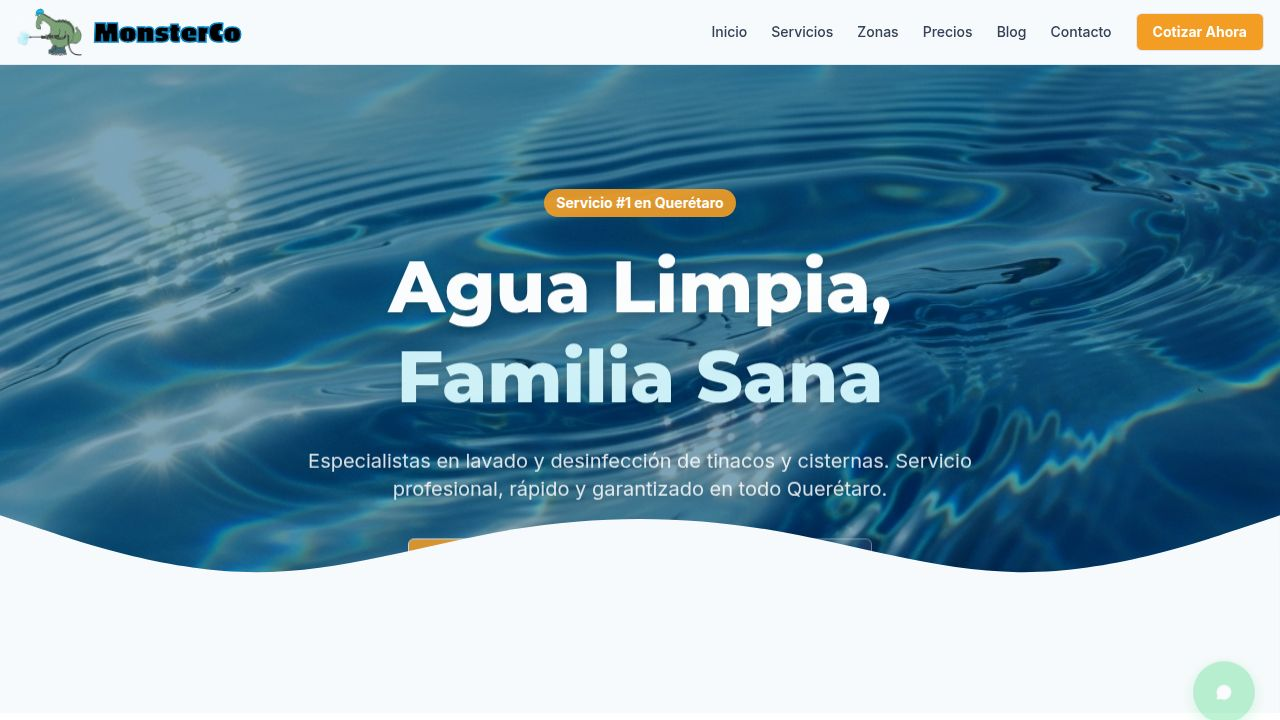
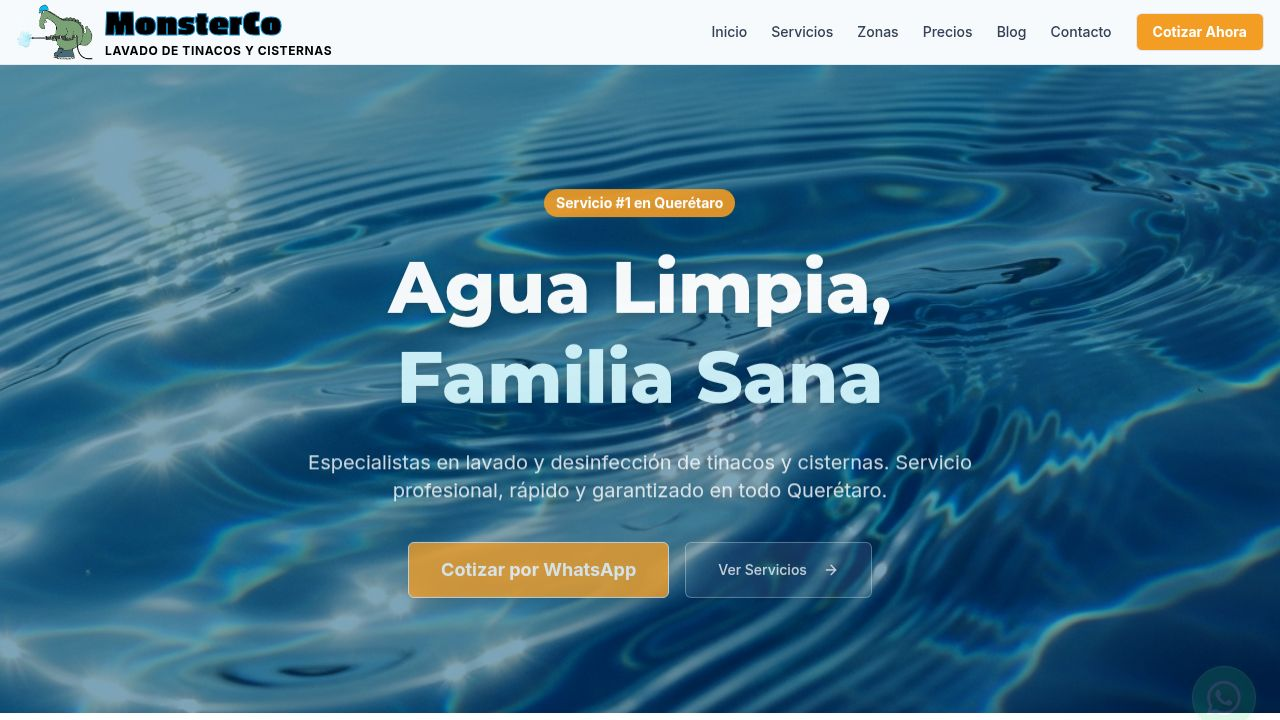
Update service details, pricing, and contact information
Remove hero wave divider, change subtitle color to black, update service descriptions and features to include "sediments" and "1-2 hours" duration, adjust pricing for basic tinaco, complete package, and basic cistern, add recurring customer pricing note, and replace generic WhatsApp icon with official logo.

Replit-Commit-Author: Agent
Replit-Commit-Session-Id: 90bea616-704a-4fad-b6e8-daf81bb07952
Replit-Commit-Checkpoint-Type: full_checkpoint
Replit-Commit-Event-Id: 16c396ae-6888-47a7-b482-82a6cecb927f
Replit-Commit-Screenshot-Url: https://storage.googleapis.com/screenshot-production-us-central1/380ff376-89d6-4e43-b055-040896384ff7/90bea616-704a-4fad-b6e8-daf81bb07952/uIH7bpf
Replit-Helium-Checkpoint-Created: true

diff --git a/client/src/components/sections/Pricing.tsx b/client/src/components/sections/Pricing.tsx
@@ -5,7 +5,7 @@ export default function Pricing() {
   const plans = [
     {
       name: "Básico - Tinaco",
-      price: "Desde $450",
+      price: "Desde $749*",
       description: "Para tinacos de hasta 1,100 litros",
       features: [
         "Lavado interior",
@@ -17,10 +17,10 @@ export default function Pricing() {
     },
     {
       name: "Paquete Completo",
-      price: "Desde $1,200",
+      price: "Desde $1,698",
       description: "Tinaco (1,100L) + Cisterna (5,000L)",
       features: [
-        "Ahorro de $150",
+        "Ahorro garantizado",
         "Lavado profundo de ambos",
         "Desinfección total",
         "Revisión de sistema de bombeo",
@@ -30,10 +30,10 @@ export default function Pricing() {
     },
     {
       name: "Cisterna",
-      price: "Desde $900",
+      price: "Desde $949",
       description: "Para cisternas de hasta 5,000 litros",
       features: [
-        "Extracción de lodos",
+        "Extracción de sedimentos",
         "Lavado a presión",
         "Desinfección",
         "Revisión de válvula pichancha"
@@ -103,8 +103,9 @@ export default function Pricing() {
           ))}
         </div>
         
-        <div className="mt-12 text-center text-sm text-muted-foreground">
-          <p>* Los precios pueden variar dependiendo de las condiciones y ubicación exacta.</p>
+        <div className="mt-12 text-center text-sm text-muted-foreground max-w-2xl mx-auto">
+          <p>*Precio para clientes recurrentes que recontratan servicio dentro de los 12 meses siguientes al ultimo servicio.</p>
+          <p className="mt-2">** Los precios pueden variar dependiendo de las condiciones y ubicación exacta.</p>
         </div>
       </div>
     </section>

diff --git a/client/src/components/sections/WhatsAppButton.tsx b/client/src/components/sections/WhatsAppButton.tsx
@@ -1,4 +1,3 @@
-import { MessageCircle } from "lucide-react";
 import { Button } from "@/components/ui/button";
 
 export default function WhatsAppButton() {
@@ -6,7 +5,7 @@ export default function WhatsAppButton() {
     <div className="fixed bottom-6 right-6 z-50 animate-in fade-in slide-in-from-bottom-10 duration-1000 delay-500">
       <Button
         size="icon"
-        className="h-16 w-16 rounded-full bg-[#25D366] hover:bg-[#128C7E] shadow-[0_4px_14px_rgba(37,211,102,0.5)] hover:shadow-[0_6px_20px_rgba(37,211,102,0.6)] hover:scale-110 transition-all duration-300"
+        className="h-16 w-16 rounded-full bg-[#25D366] hover:bg-[#128C7E] shadow-[0_4px_14px_rgba(37,211,102,0.5)] hover:shadow-[0_6px_20px_rgba(37,211,102,0.6)] hover:scale-110 transition-all duration-300 p-0"
         asChild
       >
         <a 
@@ -15,7 +14,11 @@ export default function WhatsAppButton() {
           rel="noopener noreferrer"
           aria-label="Contactar por WhatsApp"
         >
-          <MessageCircle className="h-8 w-8 text-white fill-white" />
+          <img 
+            src="https://upload.wikimedia.org/wikipedia/commons/6/6b/WhatsApp.svg" 
+            alt="WhatsApp"
+            className="h-10 w-10"
+          />
         </a>
       </Button>
       <span className="absolute -top-10 right-0 bg-white px-3 py-1 rounded-lg shadow-lg text-xs font-bold text-foreground whitespace-nowrap opacity-0 transition-opacity group-hover:opacity-100 pointer-events-none animate-bounce hidden md:block">

diff --git a/client/src/components/sections/Services.tsx b/client/src/components/sections/Services.tsx
@@ -7,14 +7,14 @@ export default function Services() {
     {
       title: "Lavado de Tinacos",
       description: "Eliminamos sedimentos, bacterias y algas de tu tinaco para asegurar la calidad del agua en tu hogar.",
-      features: ["Desinfección profunda", "Revisión de flotador", "Sin desperdiciar agua", "Duración: 45-60 min"],
+      features: ["Desinfección profunda", "Revisión de flotador", "Sin desperdiciar agua", "Duración: 1-2 horas", "Personal capacitado"],
       image: tinacoImg,
       alt: "Lavado de tinaco residencial"
     },
     {
       title: "Lavado de Cisternas",
       description: "Limpieza profesional de cisternas con equipo especializado para espacios confinados.",
-      features: ["Extracción de lodos", "Desinfección de paredes", "Revisión de bomba", "Personal capacitado"],
+      features: ["Extracción de sedimentos", "Desinfección de paredes", "Revisión de bomba", "Personal capacitado", "Duración: 1-2 horas"],
       image: cisternaImg,
       alt: "Lavado de cisterna subterránea"
     }

diff --git a/client/src/components/sections/Hero.tsx b/client/src/components/sections/Hero.tsx
@@ -43,12 +43,7 @@ export default function Hero() {
         </div>
       </div>
 
-      {/* Wave Divider */}
-      <div className="absolute bottom-0 left-0 right-0 z-20 translate-y-[1px]">
-        <svg xmlns="http://www.w3.org/2000/svg" viewBox="0 0 1440 320" className="w-full h-auto text-background fill-current">
-          <path fillOpacity="1" d="M0,96L48,112C96,128,192,160,288,160C384,160,480,128,576,112C672,96,768,96,864,112C960,128,1056,160,1152,160C1248,160,1344,128,1392,112L1440,96L1440,320L1392,320C1344,320,1248,320,1152,320C1056,320,960,320,864,320C768,320,672,320,576,320C480,320,384,320,288,320C192,320,96,320,48,320L0,320Z"></path>
-        </svg>
-      </div>
+      {/* Wave Divider removed */}
     </section>
   );
 }

diff --git a/client/src/components/sections/Navbar.tsx b/client/src/components/sections/Navbar.tsx
@@ -56,7 +56,7 @@ export default function Navbar() {
                 <span className="font-brand font-black text-4xl text-black leading-none tracking-wide" style={{ WebkitTextStroke: "1px hsl(var(--primary))" }}>
                     MonsterCo
                 </span>
-                <span className="text-[0.65rem] sm:text-xs font-bold text-primary uppercase tracking-wider leading-tight">
+                <span className="text-[0.65rem] sm:text-xs font-bold text-black uppercase tracking-wider leading-tight">
                     Lavado de tinacos y cisternas
                 </span>
             </div>
